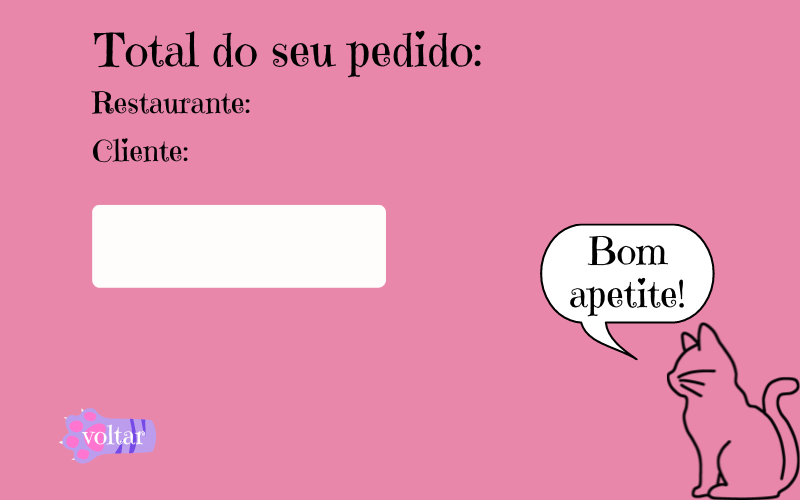
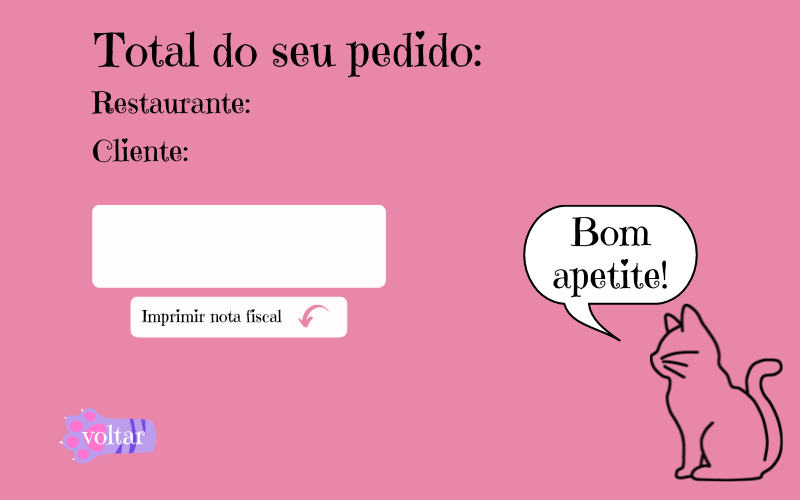
botao de imprimir nota fiscal adicionado

Changed region(s): [[0.6562, 0.39, 1.0, 1.0], [0.1562, 0.57, 0.4375, 0.69]]

diff --git a/deliveryDesafio/src/Total.java b/deliveryDesafio/src/Total.java
@@ -14,9 +14,19 @@ public class Total extends JFrame{
 
         Botao botaoVoltar = new Botao();
         botaoVoltar.setBounds(50, 430, 100, 50);
+
+        Botao botaoImprimirNotaFiscal = new Botao();
+        botaoImprimirNotaFiscal.setBounds(130, 305, 215, 40);
         botaoVoltar.addActionListener(new ActionListener() {
             public void actionPerformed(ActionEvent e) {
                 dispose();
+            }
+        });
+
+        botaoImprimirNotaFiscal.addActionListener(new ActionListener() {
+            public void actionPerformed(ActionEvent e) {
+
+                System.out.println("IMprimindo nota fiscal");
             }
         });
 
@@ -35,13 +45,14 @@ public class Total extends JFrame{
         for (Lanche lanche : listaLanches) {
             totalPedido = lanche.preco + totalPedido;
         }
-        total.setText("R$" + totalPedido);
+        total.setText("R$" + totalPedido + "0");
         
 
         getContentPane().add(botaoVoltar);
         getContentPane().add(nomeRestaurante);
         getContentPane().add(nomeCliente);
         getContentPane().add(total);
+        getContentPane().add(botaoImprimirNotaFiscal);
 
         ImageIcon imagem = new ImageIcon("src/imagens/total.png");
         Image imagemRedimensionada = imagem.getImage().getScaledInstance(800, 550, Image.SCALE_DEFAULT);

diff --git a/deliveryDesafio/src/Menu.java b/deliveryDesafio/src/Menu.java
@@ -94,22 +94,20 @@ public class Menu  extends JFrame {
 
                 labelTotalItens.setText("" + (pedido.size()));
                 labelQtdProdutoAtual.setText("" + 0);
-
-                System.out.println("adicionando " + labelQtdProdutoAtual.getText() + " á " + quantidadeTotal);
             }
         });
 
         aumentarQtd.addActionListener(new ActionListener() {
             public void actionPerformed(ActionEvent e) {
                 labelQtdProdutoAtual.setText("" + (Integer.parseInt(labelQtdProdutoAtual.getText())+1));
-                System.out.println(quantidadeProduto);
+
             }
         });
 
         diminuirQtd.addActionListener(new ActionListener() {
             public void actionPerformed(ActionEvent e) {
                 labelQtdProdutoAtual.setText("" + (Integer.parseInt(labelQtdProdutoAtual.getText())-1));
-                System.out.println(quantidadeProduto);
+
             }
         });
 

diff --git a/deliveryDesafio/src/Botao.java b/deliveryDesafio/src/Botao.java
@@ -3,8 +3,8 @@ import javax.swing.*;
 public class Botao extends JButton {
     public Botao(){
         this.setBounds(60, 440, 100, 50);
-        this.setOpaque(false);
-        this.setContentAreaFilled(false);
-        this.setBorderPainted(false);
+        //this.setOpaque(false);
+        //this.setContentAreaFilled(false);
+        //this.setBorderPainted(false);
     }
 }
